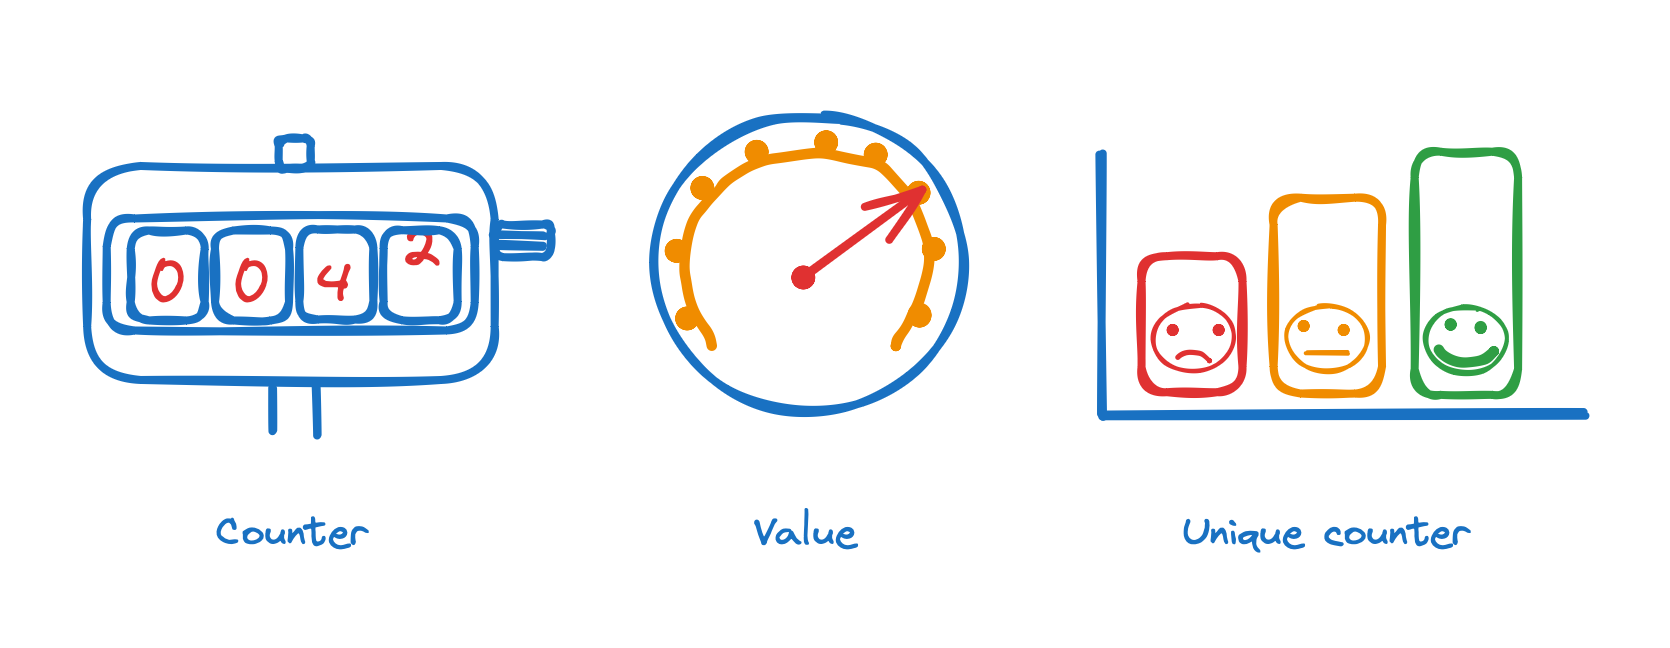
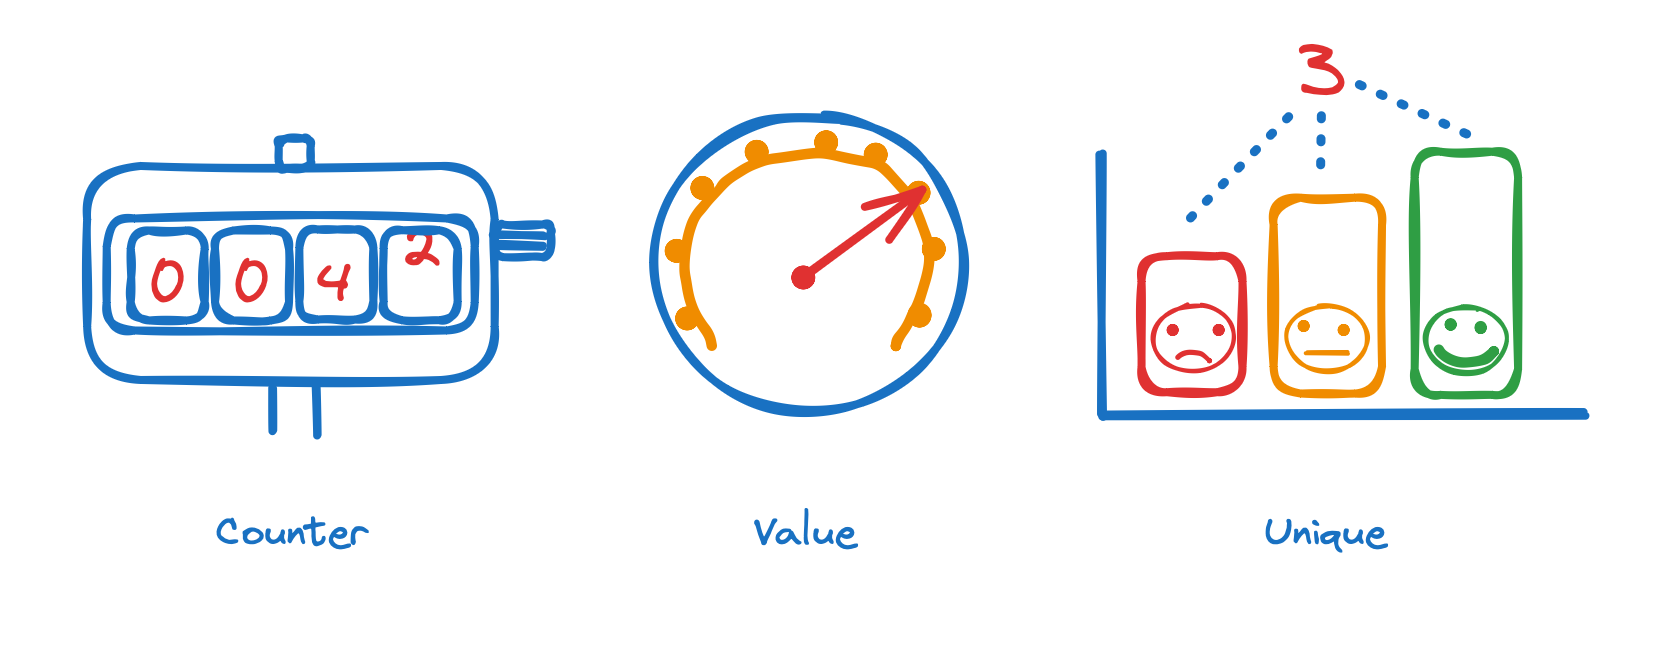
Minor fixes for 'Create a metric', 'Configure your metric' sections

diff --git a/website/docs/guides/configure-metric.md b/website/docs/guides/configure-metric.md
@@ -7,6 +7,15 @@ import MetricTypes from '../img/metric-types.png'
 
 # Configure your metric
 
+
+You have just created a metric—it now has a name and nothing more.
+
+:::info 
+For a created metric, you have to choose the [metric type](#metric-type). This is the minimal configuration needed 
+to start sending data. 
+Setting up other metric parameters is optional.
+:::
+
 Before you start configuring metrics, you may have a question:
 
 > "Can I skip configuration for my metric?"
@@ -14,7 +23,7 @@ Before you start configuring metrics, you may have a question:
 No. As soon as your metric has a name, you have to specify a [metric type](#metric-type) in your sending requests.
 Then, you can configure more parameters for advanced usage, or start sending data right away.
 
-For the full list of configuration options, see the upper-right navigation menu on this page.
+For a full list of configuration options, see the upper-right navigation menu on this page.
 
 :::warning
 Do not commit configuration changes or send data to someone else's metric as you can spoil the metric or the related data.
@@ -37,11 +46,11 @@ measure, and how you will measure it.
 :::important
 A metric type affects the range of
 [descriptive statistics](view-graph#desriptive-statistics-available-for-a-metric) available for your metric to view 
-and analyze. For example, you cannot calculate the sum for unique counters (you can, but this sum is meaningless); 
+and analyze. For example, you cannot calculate the sum for unique metrics (you can, but this sum is meaningless); 
 and percentiles are available for values only.
 
 See more about [enabling percentiles](#enable-percentiles) 
-and [showing the proper descriptive statistics](#aggregation) in the UI.
+and [showing the proper descriptive statistics](#aggregation) in the UI. 
 :::
 
 > "Which metric types are available in StatsHouse?"
@@ -52,23 +61,21 @@ With StatsHouse, you can use three basic metric types.
 
 See the table below for definitions and examples:
 
-| Metric type    | What does it measure?                                                                     | Examples                                                                                                                                        |
-|----------------|-------------------------------------------------------------------------------------------|-------------------------------------------------------------------------------------------------------------------------------------------------|
-| Counter        | It counts the number of times an event has occurred.                                      | The number of API method calls<br/>The number of requests to a server<br/>The number of errors received while sending messages                  |
-| Value metric   | It measures magnitude of a parameter.<br/>A measurement event itself is counted as well.  | How long does it take <br/>for a service to generate a newsfeed?<br/>What is CPU usage for this host?<br/>What is the response size (in bytes)? |
-| Unique counter | It counts the number of unique events.<br/>The total number of events is counted as well. | The number of unique users who sent packages to a service                                                                                       |
+| Metric type | What does it measure?                                                                     | Examples                                                                                                                                        |
+|-------------|-------------------------------------------------------------------------------------------|-------------------------------------------------------------------------------------------------------------------------------------------------|
+| Counter     | It counts the number of times an event has occurred.                                      | The number of API method calls<br/>The number of requests to a server<br/>The number of errors received while sending messages                  |
+| Value       | It measures magnitude of a parameter.<br/>A measurement event itself is counted as well.  | How long does it take <br/>for a service to generate a newsfeed?<br/>What is CPU usage for this host?<br/>What is the response size (in bytes)? |
+| Unique      | It counts the number of unique events.<br/>The total number of events is counted as well. | The number of unique users who sent packages to a service                                                                                       |
 
-Value metrics and unique counters have an ordinary counter inside so that you should not implement your own counters 
-for these metric types. Imagine you measuring a value metric (e.g. the 
-response size in bytes) once in a second:
+Value and unique metrics have an ordinary counter inside, so you should not implement your own counters 
+for these metric types. Imagine you measuring a value metric (e.g. the response size in bytes) once in a second:
 * You get the "value level" that is your parameter magnitude:
 1024 bytes, then 2048 bytes, etc. Please note that this "level" is [aggregation], not an exact value for a 
   particular moment in time.
 * You also get the "counter" for your value metric that shows the number of times you performed 
 your measurements: +1 for the first second, +1 for the next one, etc. 
 
-The same applies to unique counters: they 
-provide you with both the number of unique events and the total number of events.
+The same applies to unique metrics: they provide you with the number of unique events and the total number of events.
 See more on 
 [changing or combining metric types](#changing-or-combining-metric-types)
 and [user-guided sampling](#user-guided-sampling).
@@ -108,15 +115,19 @@ Having done this, you may send your data, or continue configuring metric paramet
 ## Tags
 
 
-You can [start sending data](send-data.md) to your metric with no additional configuration.
-StatsHouse does everything for you, but it may lead to increased sampling. In most cases, you do not need
-to worry about sampling, but if you are not sure, check the [conceptual overview].
+Why to use tags for your metrics
 
-:::info
-Sampling prevents StatsHouse from database overload. If you send too much, StatsHouse _samples_
-data: it removes random data rows and multiplies the remaining ones so that the resulting aggregation and
-digests stay the same. Find more about [sampling], [aggregation], and [digests].
-:::
+Человек группирует по тегам, например, ищет причину провала
+
+Хороший дизайн метрики - хорошие теги. Теги позволяют категоризовать данные
+
+Ограничения: число тегов. Но много чего можно сделать
+
+ЧТо лучше: создавать несколько метрик или одну метрику переиспользовать с кучей тегов
+
+
+
+
 
 
 https://prometheus.io/docs/practices/naming/
@@ -136,7 +147,23 @@ https://www.robustperception.io/cardinality-is-key/
 > "How many tags are allowed?"
  
 
-> "How many tag values are allowed?"
+> "How many tag _values_ are allowed?"
+
+
+
+
+You can [start sending data](send-data.md) to your metric with no additional configuration.
+StatsHouse does everything for you, but it may lead to increased sampling. In most cases, you do not need
+to worry about sampling, but if you are not sure, check the [conceptual overview].
+
+:::info
+Sampling prevents StatsHouse from database overload. If you send too much, StatsHouse _samples_
+data: it removes random data rows and multiplies the remaining ones so that the resulting aggregation and
+digests stay the same. Find more about [sampling], [aggregation], and [digests].
+:::
+
+
+
 
 > "What are tag ID, name, and description?"
 
@@ -144,9 +171,66 @@ https://www.robustperception.io/cardinality-is-key/
 > "What are _Raw_ tags and value comments"
 
 
+Mapping - в БД храним числа (меньше места занимают, экономия на чтении и записи)
+Строки переводятся в числа 32-разрядные - ограничиваем создание mapping-а
+Необходима правильная разметка данных - не разрешаем автоматически создавать метрики
+16 тегов (мб будет больше) - в Кликхаусе надо сразу сказать, сколько будет колонок
+Если в качестве тега user id   - получаем mapping error
+Receive status загорается, когда мы не смогли распарсить данные
+Sampling source/aggregator - на чем семплируется
+Mapping status - руками создаем метрики
+Если много создаем, если исчерпали бюджет, то строку (тег) выкидываем - получаем empty
+Загорелось: если писать в качестве тега user id - исчерпается бюджет строк
+(про теги) Raw  - когда прислали строку - перевести в число. Raw - можно использовать как есть
+Если шлем строку, а стоит Raw - получаем ошибки Receive status
+С помощью Raw экономим бюджет на строки
+Если тег - метрика, то что??
+Вначале пользователи вообще не знали про mapping - фигачили подряд - быстро исчерпывали бюджет
+Сделали Raw
+неудобно смотреть числа
+Сделали comment - хранятся не там, где маппинг (он хранится в метаданных)
+
+Host (комп): вместо того, чтобы писать тег "host", нужно использовать готовую фичу — с какого компа чаще всего приходит максимальная строчка
+
+Кардинальность — сколько уникальных комбинаций значений тегов. Каждому сочетанию соответствует строчка в базе.
+
+
+Пользователи часто хотят добавить как можно больше тегов в метрики
+Динамическое возрастание объема данных: например, сервис создает ключи, например, ID. Представим, что сервис стал популярен...
+Можно писать одну и ту же метрику — много тегов, кардинальность высокая — она семплируется, запросы будут медленные
+Для постоянного использования всего пара основных ключей, но семплироваться не будет
+
+
+Ряд - последовательность значений с тегаами (ключ - значение)
+Имя метрики - тоже тег
+Бюджет - сколько в секунду передать данных (разные бюджеты на агенте и агрегаторе)
+Нужно сохранить статистику: случайным образом выкидываем, а потом счетчики и сумму домножаем - семплирование
+
+Наши разные либы по-разному отправляют пакеты на события
+Сейчас семплирование работает только на уровне метрик
+Например, пришли 10 комбинаций тегов - это 10 рядов
+Если низкая кардинальность - легко агрегируем, не надо семплировать. Высокая кардинальность - надо семплировать
+Хуже всего, когда в тег пишут ID пользователя - не сжимается, надо семплировать
+
+Создать метрику - назвать ее и проименовать теги (добавляется алиас - говорящее имя)
+тег0 - всегда  env
+(Кликхаус хранит данные по столбикам, теги - столбики, данные группируются по тегам)
+Хорошо, когда вначале идут теги с меньшей кардинальностью (env-тов у нас мало)
+
+tag_1 - alias - description
+Value comment - mapping
+
+
+
+**Как  выглядит настройка тегов в ЮИ и в коде**
+
 
 
 ## Description
+какие символы использовать
+
+какой длины текст
+кто читает и зачем
 
 Description is for UI only. New lines are respected, no other formatting supported yet.
 

diff --git a/website/docs/guides/create-metric.md b/website/docs/guides/create-metric.md
@@ -7,7 +7,16 @@ import NameMetric from '../img/name-new-metric.png'
 
 # Create a metric
 
-[Check the typical questions](#frequent-questions) and [create a metric via the StatsHouse UI](#how-to-create-a-metric-in-the-ui).
+[Check the typical questions](#frequent-questions) 
+and [create a metric via the StatsHouse UI](#how-to-create-a-metric-in-the-ui).
+
+:::important
+* You have to create a metric before sending data to it.
+* To create a metric is to give it a name—nothing more.
+* For a created metric, you have to choose the metric type. This is the minimal configuration needed to start sending 
+  data.
+* You can configure more options for your metric later.
+:::
 
 ## Frequent questions
 
